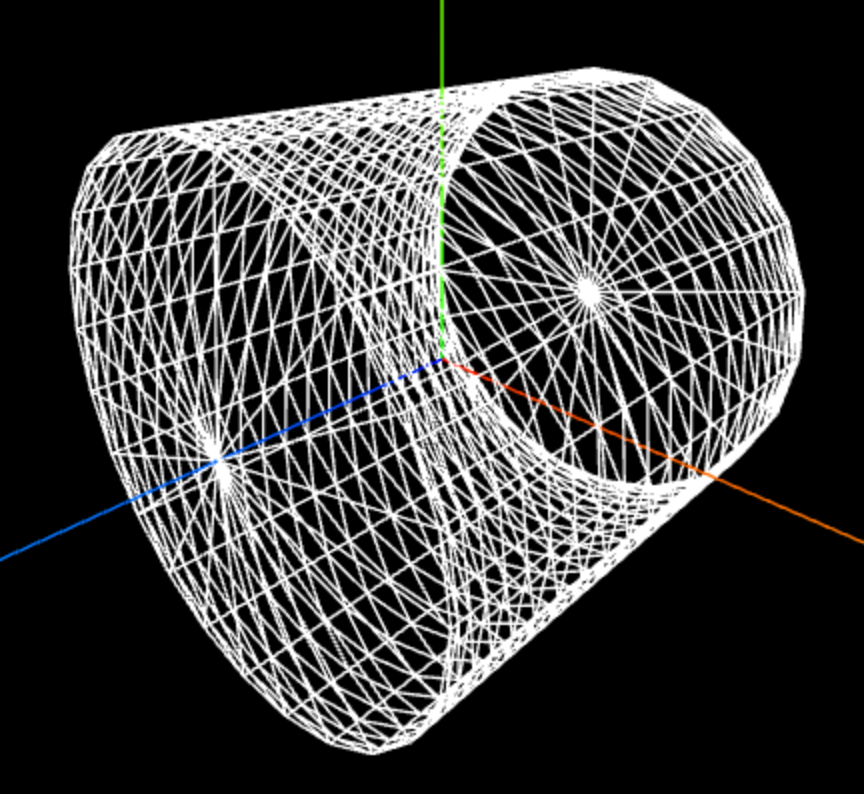
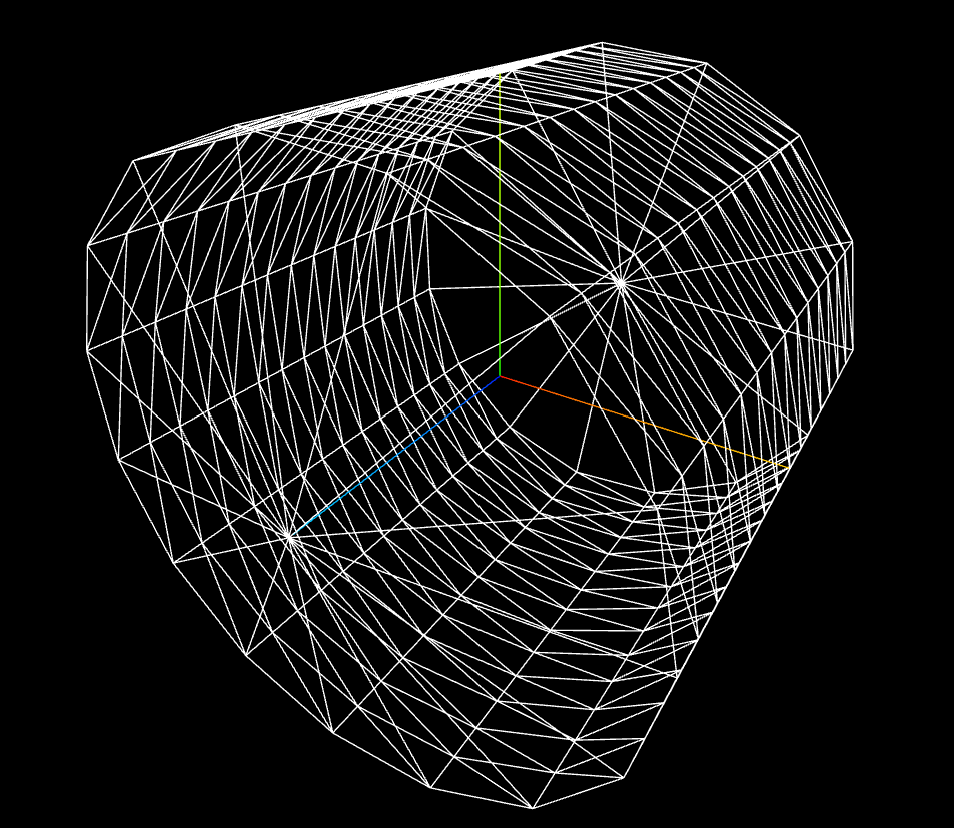
final touches

diff --git a/slides/index.html b/slides/index.html
@@ -1100,7 +1100,7 @@ function CylinderIndices(
                             </div>
                             <div>
                                 <pre style="margin:0;overflow:hidden;border-radius:8px;background-color: rgb(23, 22, 22);">
-                                    <code data-trim data-line-numbers="|24|26-27|29|31-33|34-40|44-45|47|69|71-74|76-78|79-85|89-95|97" class="language-javascript" style="background-color: black;display:block;font-family:ui-monospace, SFMono-Regular, Menlo, Monaco, 'Roboto Mono', 'Courier New', monospace;font-size:0.9rem;line-height:1.45;">
+                                    <code data-trim data-line-numbers="|24|26-27|29-30|32-34|32-37|39-43|47-48|50|72|74-77|79-81|82-85|87-88|92-98|100" class="language-javascript" style="background-color: black;display:block;font-family:ui-monospace, SFMono-Regular, Menlo, Monaco, 'Roboto Mono', 'Courier New', monospace;font-size:0.9rem;line-height:1.45;">
 /**
  * Generates vertex positions for a cylinder mesh centered at the origin.
  * 
@@ -1129,16 +1129,19 @@ function CylinderVertices(
     // Top center vertex (north cap)
     vertexPositions.push(0, 0, height / 2);
 
+    const heightStep = height/(rings-1);
     const phiStep = 2 * Math.PI / segments;
 
     // Body vertices (interpolated between top and bottom)
-    for (let ring = 1; ring <= rings; ring++) {
+    for (let ring = 0; ring < rings; ring++) {
+        const h = heightStep * ring - height/2;
+
         for (let segment = 1; segment <= segments; segment++) {
             const phi = phiStep * segment;
 
             const x = radius * Math.cos(phi);
             const y = radius * Math.sin(phi);
-            const z = height / 2 - (height * ring) / (rings + 1);
+            const z = h;
 
             vertexPositions.push(x, y, z);
         }
@@ -1216,7 +1219,7 @@ function CylinderIndices(
                             </div>
                             <div>
                                 <pre style="margin:0;overflow:hidden;border-radius:8px;background-color: rgb(23, 22, 22);">
-                                    <code data-trim data-line-numbers="|1-13|2|4-7|9|18-25|19|21-22|24" class="language-javascript" style="background-color: black;display:block;font-family:ui-monospace, SFMono-Regular, Menlo, Monaco, 'Roboto Mono', 'Courier New', monospace;font-size:0.9rem;line-height:1.45;">
+                                    <code data-trim data-line-numbers="|1-10|2|4-7|9|18-25|19|21-22|24" class="language-javascript" style="background-color: black;display:block;font-family:ui-monospace, SFMono-Regular, Menlo, Monaco, 'Roboto Mono', 'Courier New', monospace;font-size:0.9rem;line-height:1.45;">
 /**
  * Generates the vertex positions for a torus mesh.
  *
@@ -1961,7 +1964,7 @@ void main() {
                                 <code data-line-numbers="|3-5|7-10|8-9" style="background: black;border-radius: 8px;font-size: 1.3rem;">// shaders/waves/default.frag
 
 uniform float uTime; // All uniforms are accessible in the fragment shader.
-// attribute vec3 position; Attributes are accessible in the vertex shader only.
+// attribute vec3 position; Attributes are accessible only in the vertex shader.
 varying vec3 vPosition; // Varyings are interpolated from the values giving by the vertices on each face.
     
 void main() {
@@ -2313,7 +2316,7 @@ void main() {
                 <section style="height: 100%;">
                     <div style="height: 100%;display: flex;flex-direction: column;justify-content: space-around;">
                             <pre style="height: 80%;">
-                                <code data-line-numbers="|18-26|32-60|38|40-44|46-47|49-50|52-53|55-57|60|" style="background: black;border-radius:8px;font-size: 1.2rem;">// ================================================================
+                                <code data-line-numbers="|18-26|32-60|38|40-44|46-47|49-50|52-53|55-56|59|" style="background: black;border-radius:8px;font-size: 1.2rem;">// ================================================================
 // Data Structures
 // ================================================================
 
@@ -2367,7 +2370,6 @@ vec3 SumOfSines(vec2 pos) {
         sum += Sin(pos, wave);
         amplitudeSum += wave.amplitude;
 
-        // scale amplitude and frequency for next layer
         wave.amplitude *= amplitudeMulti;
         wave.frequency *= frequencyMulti;
     }
@@ -2425,7 +2427,7 @@ void main() {
                                     <div class="fragment">
                                         <li>Where:</li>
                                         <ul>
-                                            <li class="fragment">\( \vec{t}_i: \) a <strong style="color: #f95d6f;">tangent vector</strong> to the surface: <span class="fragment">\( \vec{t}_i = \frac{\partial \vec{OM}}{\partial x} \)</span></li>
+                                            <li class="fragment">\( \vec{t}_i: \) a <strong style="color: #f95d6f;">tangent vector</strong> to the surface: <span class="fragment" style="margin-left: 1rem;">\( \vec{t}_i = \frac{\partial \vec{OM}}{\partial x} \)</span></li>
                                             <li class="fragment">\( \vec{b}_i: \) another <strong style="color: #f95d6f;">tangent vector</strong> distinct from \( \vec{t}_i \): <span class="fragment" style="margin-left: 1rem;">\( \vec{b}_i = \frac{\partial \vec{OM}}{\partial y} \)</span></li>
                                         </ul>
                                     </div>
@@ -2599,8 +2601,8 @@ precision lowp samplerCube;
 // Uniforms (global parameters provided by the host application)
 // ================================================================
 
-// Direction of incoming light in world space
-uniform vec3 uLightDir;
+// Position of the light source in world space
+uniform vec3 uLightPos;
 
 // Position of the camera in world space (for view direction & reflections)
 uniform vec3 cameraPosition;
@@ -2825,8 +2827,8 @@ precision lowp samplerCube;
 // Uniforms (global parameters provided by the host application)
 // ================================================================
 
-// Direction of incoming light in world space
-uniform vec3 uLightDir;
+// Position of the light source in world space
+uniform vec3 uLightPos;
 
 // Position of the camera in world space (for view direction & reflections)
 uniform vec3 cameraPosition;
@@ -2856,13 +2858,13 @@ void main() {
     // Normalize inputs
     // ----------------------------
     vec3 normal = normalize(vNormal);                          // Ensure unit normal
-    vec3 lightDir = normalize(uLightDir);                      // Incoming light direction
+    vec3 lightDir = normalize(-uLightPos);                      // Incoming light direction
     vec3 viewDir = normalize(cameraPosition - vPosition);      // Camera-to-fragment direction
 
     // ----------------------------
     // Specular highlights (Blinn/Phong-like)
     // ----------------------------
-    vec3 reflectDir = reflect(-lightDir, normal);   // Reflection of light vector
+    vec3 reflectDir = reflect(lightDir, normal);   // Reflection of light vector
     float shininess = 100.0;                        // Surface glossiness
     float spec = pow(max(dot(viewDir, reflectDir), 0.0), shininess);
 
@@ -3006,8 +3008,8 @@ precision lowp samplerCube;
 // Uniforms (global parameters provided by the host application)
 // ================================================================
 
-// Direction of incoming light in world space
-uniform vec3 uLightDir;
+// Position of the light source in world space
+uniform vec3 uLightPos;
 
 // Position of the camera in world space (for view direction & reflections)
 uniform vec3 cameraPosition;
@@ -3037,13 +3039,13 @@ void main() {
     // Normalize inputs
     // ----------------------------
     vec3 normal = normalize(vNormal);                          // Ensure unit normal
-    vec3 lightDir = normalize(uLightDir);                      // Incoming light direction
+    vec3 lightDir = normalize(-uLightPos);                      // Incoming light direction
     vec3 viewDir = normalize(cameraPosition - vPosition);      // Camera-to-fragment direction
 
     // ----------------------------
     // Specular highlights (Blinn/Phong-like)
     // ----------------------------
-    vec3 reflectDir = reflect(-lightDir, normal);   // Reflection of light vector
+    vec3 reflectDir = reflect(lightDir, normal);   // Reflection of light vector
     float shininess = 100.0;                        // Surface glossiness
     float spec = pow(max(dot(viewDir, reflectDir), 0.0), shininess);
 
@@ -3052,7 +3054,7 @@ void main() {
     // ----------------------------
     // Diffuse lighting (Lambertian reflection)
     // ----------------------------
-    float diff = max(dot(normal, -lightDir), 0.0);
+    float diff = max(dot(normal, lightDir), 0.0);
     vec3 diffuse = 2.0 * diff * waterColor;   // Multiplied by 2.0 for stronger effect
 
     // ----------------------------
@@ -3164,8 +3166,8 @@ precision lowp samplerCube;
 // Uniforms (global parameters provided by the host application)
 // ================================================================
 
-// Direction of incoming light in world space
-uniform vec3 uLightDir;
+// Position of the light source in world space
+uniform vec3 uLightPos;
 
 // Position of the camera in world space (for view direction & reflections)
 uniform vec3 cameraPosition;
@@ -3195,13 +3197,13 @@ void main() {
     // Normalize inputs
     // ----------------------------
     vec3 normal = normalize(vNormal);                          // Ensure unit normal
-    vec3 lightDir = normalize(uLightDir);                      // Incoming light direction
+    vec3 lightDir = normalize(-uLightPos);                      // Incoming light direction
     vec3 viewDir = normalize(cameraPosition - vPosition);      // Camera-to-fragment direction
 
     // ----------------------------
     // Specular highlights (Blinn/Phong-like)
     // ----------------------------
-    vec3 reflectDir = reflect(-lightDir, normal);   // Reflection of light vector
+    vec3 reflectDir = reflect(lightDir, normal);   // Reflection of light vector
     float shininess = 100.0;                        // Surface glossiness
     float spec = pow(max(dot(viewDir, reflectDir), 0.0), shininess);
     
@@ -3210,7 +3212,7 @@ void main() {
     // ----------------------------
     // Diffuse lighting (Lambertian reflection)
     // ----------------------------
-    float diff = max(dot(normal, -lightDir), 0.0);
+    float diff = max(dot(normal, lightDir), 0.0);
     vec3 diffuse = 2.0 * diff * waterColor;   // Multiplied by 2.0 for stronger effect
 
     // ----------------------------
